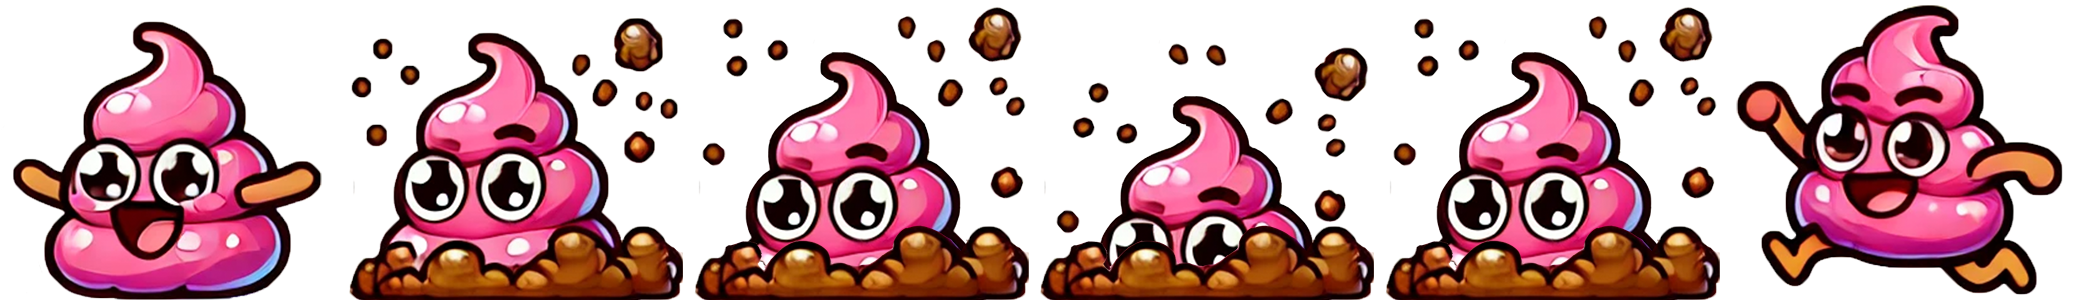
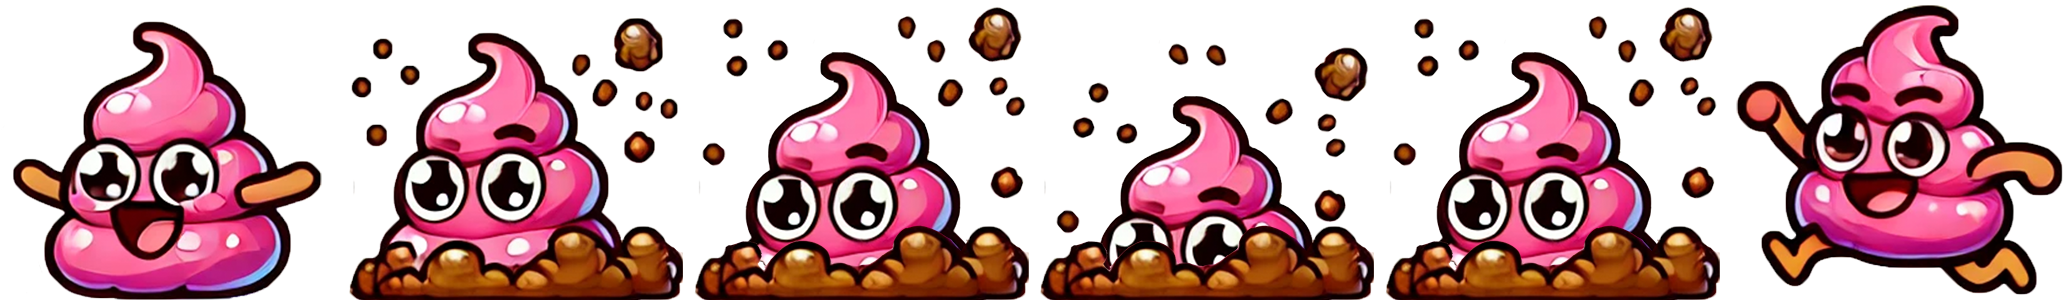
Fase 5 paso 3: corregir frameWidth con decimales en patinete y caca
- patinete: recortar 1880→1878 px, fw 313.3→313.
- caca: recortar 2073→2070 px, fw 345.5→345.

diff --git a/js/niveles/barcelona.js b/js/niveles/barcelona.js
@@ -208,8 +208,8 @@ export const BARCELONA = {
             { key: 'lunaWukong',         ruta: 'assets/lunaWukong.png',              fw: 420,   fh: 390 },
             { key: 'paloma',             ruta: 'assets/paloma1.png',                 fw: 370,   fh: 450 },
             { key: 'explosion',          ruta: 'assets/explosion.png',               fw: 298,   fh: 300 },
-            { key: 'patinete',           ruta: 'assets/patinete.png',               fw: 313.3, fh: 360 },
-            { key: 'caca',               ruta: 'assets/caca.png',                   fw: 345.5, fh: 300 },
+            { key: 'patinete',           ruta: 'assets/patinete.png',               fw: 313,   fh: 360 },
+            { key: 'caca',               ruta: 'assets/caca.png',                   fw: 345,   fh: 300 },
         ],
         audios: [
             { key: 'backgroundSound',    ruta: 'assets/sonidos/pruebaBackground.mp3' },
